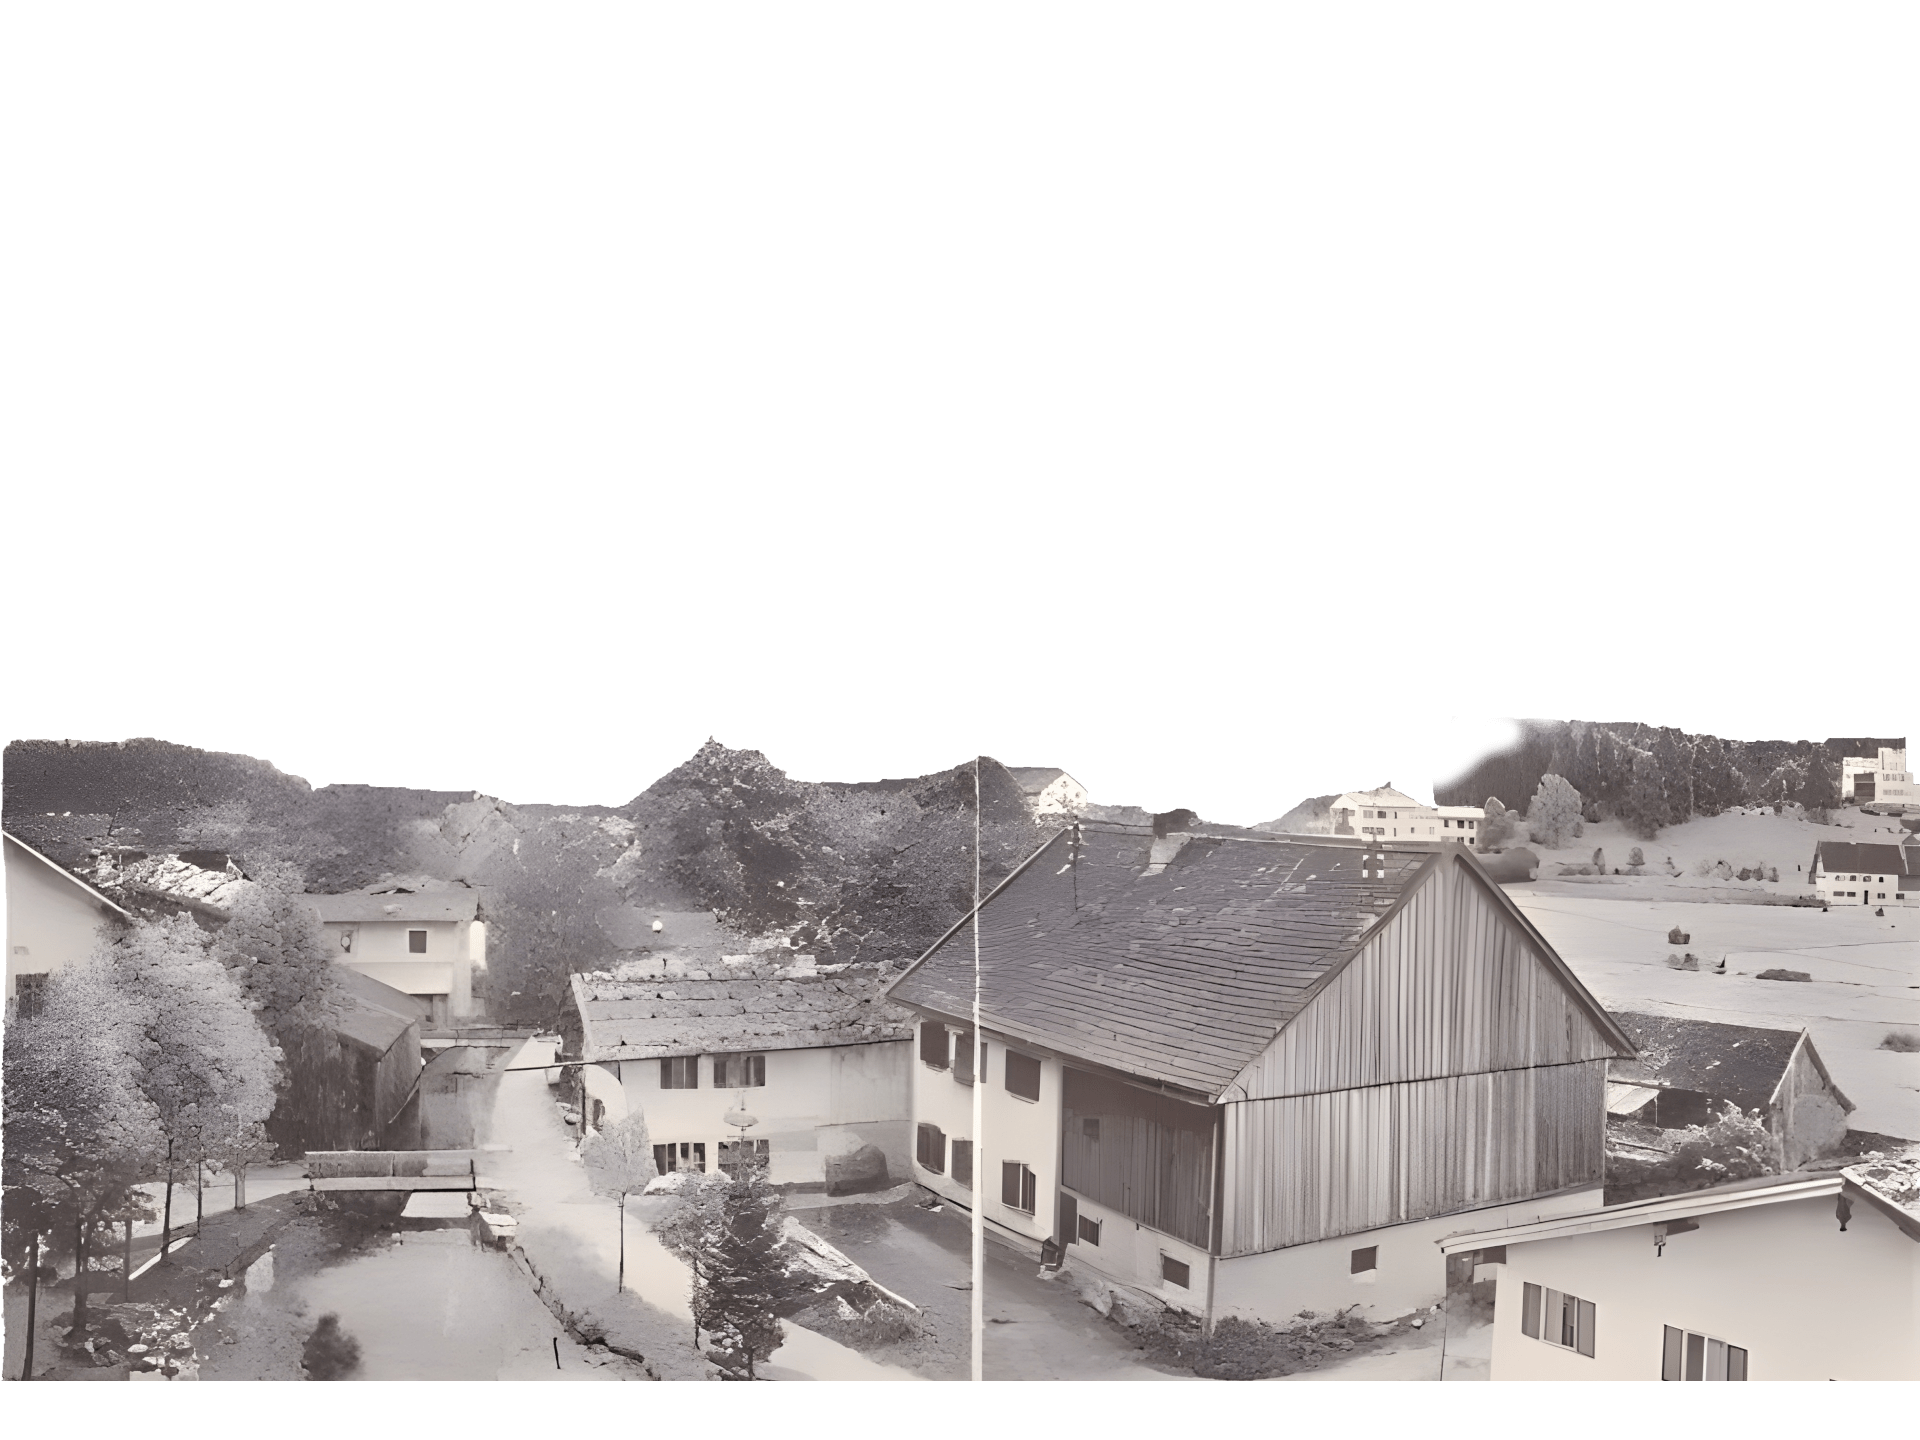
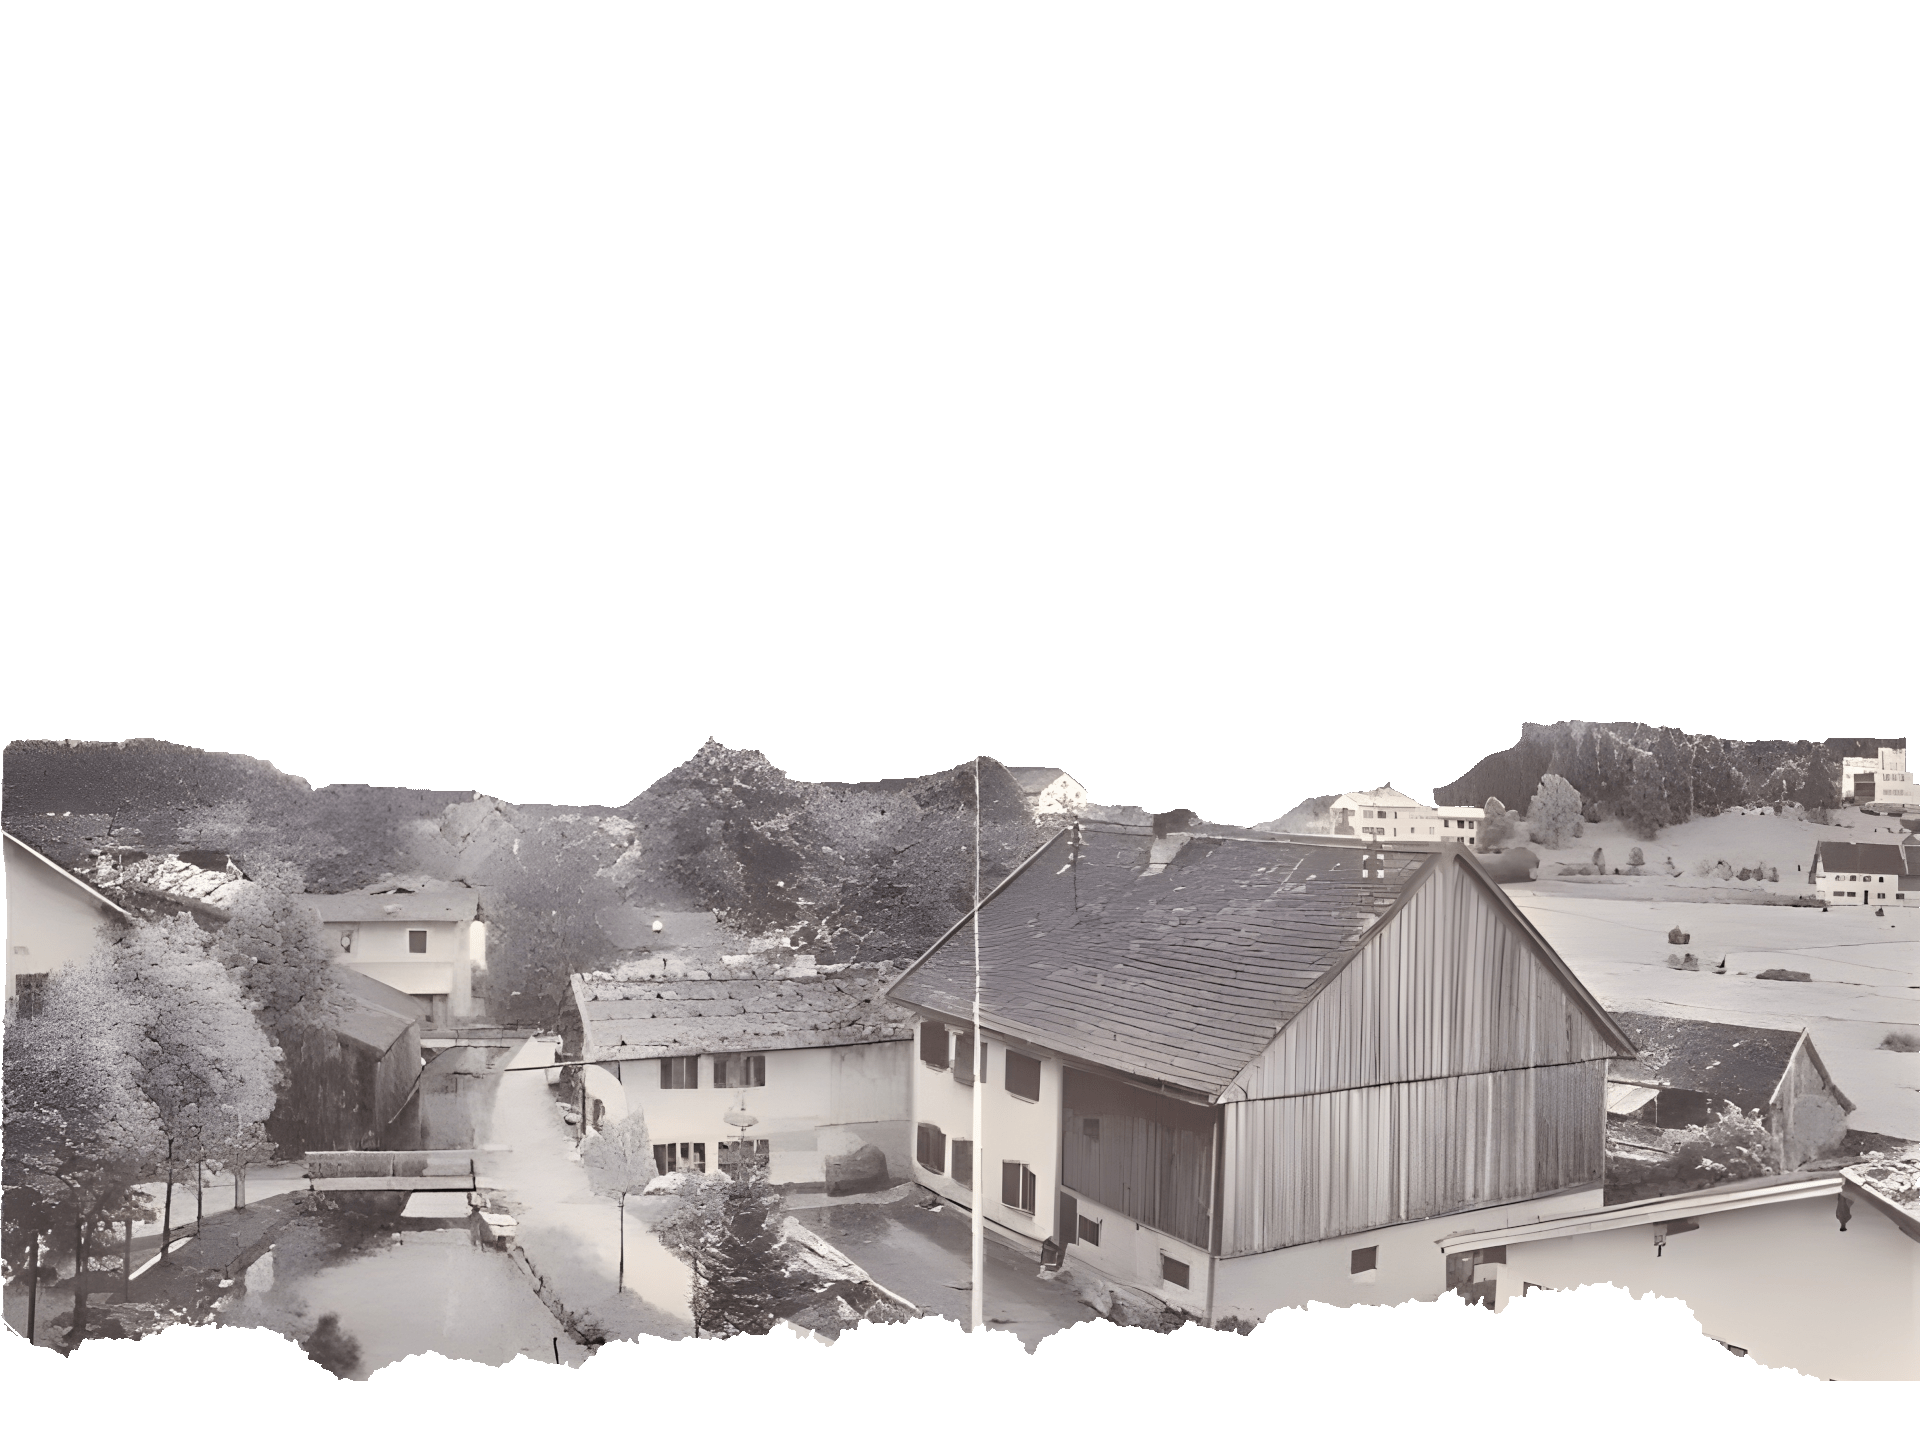
update

Changed region(s): [[0.0, 0.875, 0.9375, 0.9688], [0.7812, 0.5, 0.8125, 0.5312], [0.75, 0.5312, 0.7812, 0.5625]]

diff --git a/themes/wl/templates/index.min.html b/themes/wl/templates/index.min.html
@@ -1,1 +1,1 @@
-{% extends "base.html" %} {% block header %} <style>#parallax{width:100vw!important;height:100vh;position:absolute;top:0;left:0;overflow:hidden}#parallax img{position:absolute;top:0;left:0;width:100%;height:100%;transition:.3s ease-out;object-fit:cover;object-position:right top}</style> <div id="parallax"> <img src="/images/parallax/l4.png"> <img src="/images/parallax/l5.png"> <img src="/images/parallax/l3.png"> <img src="/images/parallax/l2.png"> <img src="/images/parallax/l1.png"> </div> <header class="head"> </header> {% endblock header %} {% block content %} <div class="container" style="margin-top:100vh"> <div> <div> <h1 class="section-heading">Willkommen</h1> <span class="section-subheading">auf der Homepage des historischen Vereins Oberammergau</span> </div> <div> {% for page in paginator.pages %} <div class="post-preview"> {{ post_macros::page_title(page=page) }} <p class="post-summary">{{ page.summary | safe }}</p> </div> {% endfor %} </div> </div> </div> {% endblock content %}
+{% extends "base.html" %} {% block header %} <style>#parallax{width:100vw;height:130vh;position:absolute;top:0;left:0;overflow:hidden}#parallax img{position:absolute;top:0;left:0;width:100%;height:100%;transition:.3s ease-out;object-fit:cover;object-position:right top}</style> <div id="parallax"> <img src="/images/parallax/l4.png"> <img src="/images/parallax/l5.png"> <img src="/images/parallax/l3.png"> <img src="/images/parallax/l2.png"> <img src="/images/parallax/l1.png" style="filter:drop-shadow(0px 10px 5px #000000cc)"> </div> <header class="head"> </header> {% endblock header %} {% block content %} <div class="container" style="margin-top:100vh"> <div> <div> <h1 class="section-heading">Willkommen</h1> <span class="section-subheading">auf der Homepage des historischen Vereins Oberammergau</span> </div> <div> {% for page in paginator.pages %} <div class="post-preview"> {{ post_macros::page_title(page=page) }} <p class="post-summary">{{ page.summary | safe }}</p> </div> {% endfor %} </div> </div> </div> {% endblock content %}

diff --git a/themes/wl/templates/index.html b/themes/wl/templates/index.html
@@ -6,8 +6,8 @@
 <style>
 
   #parallax {
-      width: 100vw !important;
-      height: 100vh;
+      width: 100vw;
+      height: 130vh;
       position: absolute;
       top: 0;
       left: 0;
@@ -33,7 +33,7 @@
   <img src="/images/parallax/l5.png">
   <img src="/images/parallax/l3.png">
   <img src="/images/parallax/l2.png">
-  <img src="/images/parallax/l1.png">
+  <img src="/images/parallax/l1.png" style="filter: drop-shadow(0px 10px 5px #000000cc);">
 </div>
 <header class="head" >
 </header>
